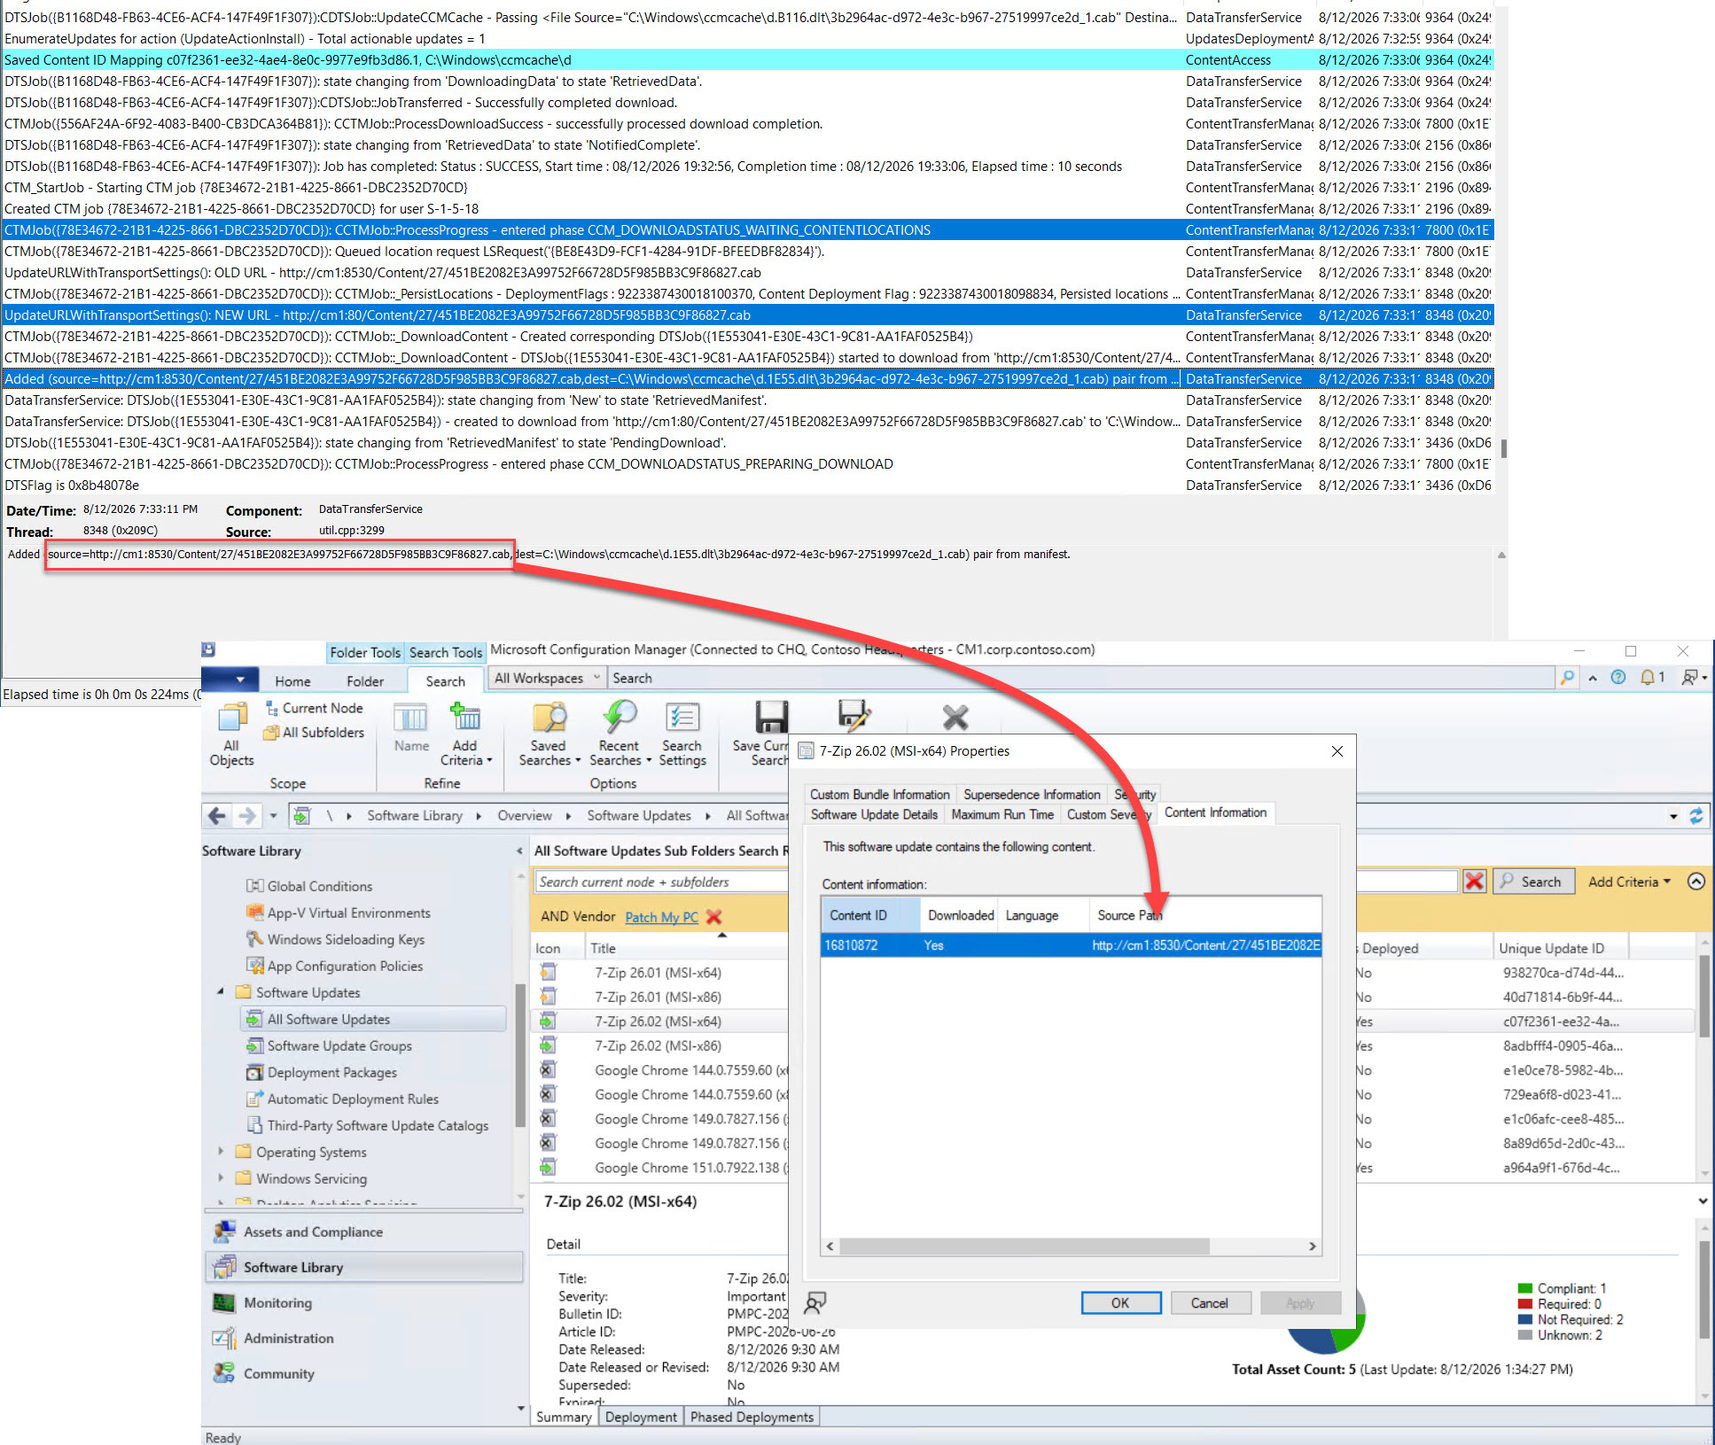
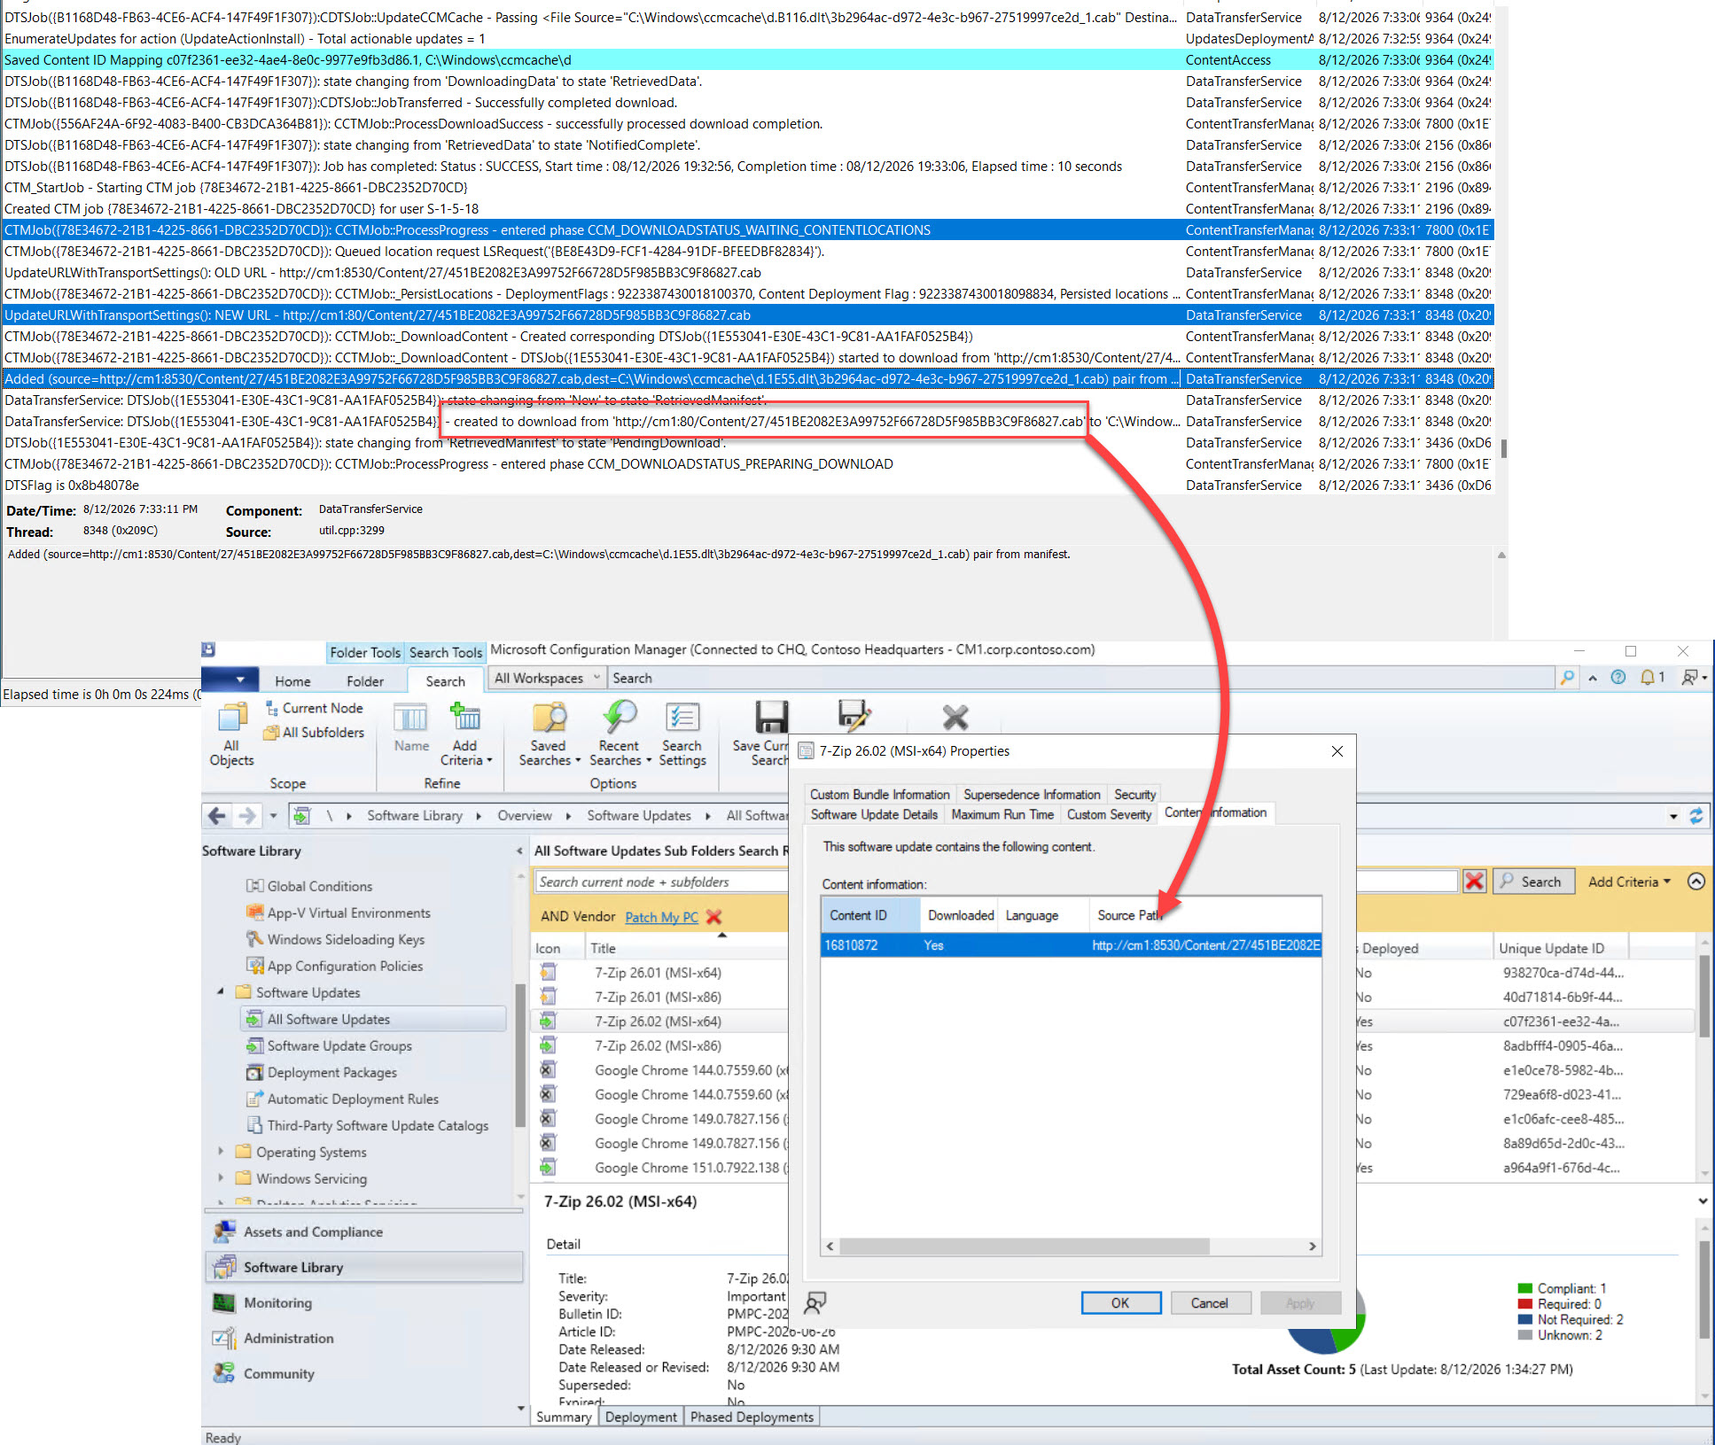
edited blog

Changed region(s): [[0.0, 0.3679, 0.7442, 0.6438], [0.2481, 0.2759, 0.6822, 0.3679], [0.6822, 0.3679, 0.7132, 0.4598]]

diff --git a/blog/configmgrcontentdistro/index.html b/blog/configmgrcontentdistro/index.html
@@ -9,8 +9,9 @@ That article primarily focused on first-party updates. This one digs into some C
 </a><a href=https://www.linkedin.com/in/christopher-dalton-552a2955 target=_blank rel="noreferrer noopener me" title=Linkedin><svg class="icon icon-brand-linkedin" viewBox="0 0 24 24" fill="currentColor"><title>LinkedIn</title><path d="M20.447 20.452h-3.554v-5.569c0-1.328-.027-3.037-1.852-3.037-1.853.0-2.136 1.445-2.136 2.939v5.667H9.351V9h3.414v1.561h.046c.477-.9 1.637-1.85 3.37-1.85 3.601.0 4.267 2.37 4.267 5.455v6.286zM5.337 7.433c-1.144.0-2.063-.926-2.063-2.065.0-1.138.92-2.063 2.063-2.063 1.14.0 2.064.925 2.064 2.063.0 1.139-.925 2.065-2.064 2.065zm1.782 13.019H3.555V9h3.564v11.452zM22.225.0H1.771C.792.0.0.774.0 1.729v20.542C0 23.227.792 24 1.771 24h20.451C23.2 24 24 23.227 24 22.271V1.729C24 .774 23.2.0 22.222.0h.003z"/></svg>
 </a><a id=auth-login-button href=https://daltonfarm-ckdalton01-github-io.onrender.com/auth/login title="Sign in"><svg class="icon icon-login" viewBox="0 0 24 24" fill="none" stroke="currentColor" stroke-width="2" stroke-linecap="round" stroke-linejoin="round"><title>Login</title><path d="M15 3h4a2 2 0 012 2v14a2 2 0 01-2 2h-4"/><polyline points="10 17 15 12 10 7"/><line x1="15" y1="12" x2="3" y2="12"/></svg></a></div><div id=auth-container></div></header><main class=app-container id=main-content><article class=post><header class=post-header><h1 class=post-title>Software Update Content Distribution Fun</h1><div class=post-meta><div><svg class="icon icon-calendar" viewBox="0 0 24 24" fill="none" stroke="currentColor" stroke-width="2" stroke-linecap="round" stroke-linejoin="round"><title>calendar</title><rect x="3" y="4" width="18" height="18" rx="2" ry="2"/><line x1="16" y1="2" x2="16" y2="6"/><line x1="8" y1="2" x2="8" y2="6"/><line x1="3" y1="10" x2="21" y2="10"/></svg>
 Aug 12, 2026</div><div><svg class="icon icon-clock" viewBox="0 0 24 24" fill="none" stroke="currentColor" stroke-width="2" stroke-linecap="round" stroke-linejoin="round"><title>clock</title><circle cx="12" cy="12" r="10"/><polyline points="12 6 12 12 16 14"/></svg>
-3 min read</div><div><svg class="icon icon-tag" viewBox="0 0 24 24" fill="none" stroke="currentColor" stroke-width="2" stroke-linecap="round" stroke-linejoin="round"><title>tag</title><path d="M20.59 13.41l-7.17 7.17a2 2 0 01-2.83.0L2 12V2h10l8.59 8.59a2 2 0 010 2.82z"/><line x1="7" y1="7" x2="7.01" y2="7"/></svg>
+4 min read</div><div><svg class="icon icon-tag" viewBox="0 0 24 24" fill="none" stroke="currentColor" stroke-width="2" stroke-linecap="round" stroke-linejoin="round"><title>tag</title><path d="M20.59 13.41l-7.17 7.17a2 2 0 01-2.83.0L2 12V2h10l8.59 8.59a2 2 0 010 2.82z"/><line x1="7" y1="7" x2="7.01" y2="7"/></svg>
 <a class=tag href=/tags/configmgr/>ConfigMgr</a>
 <a class=tag href=/tags/wsus/>WSUS</a>
 <a class=tag href=/tags/windows/>Windows</a></div></div></header><div class=post-content><h2 id=background>Background</h2><p>I wanted to cover a topic that came up in support recently. The issue revolves around how third-party updates are downloaded to devices and how specific settings affect where that content comes from.</p><p>I wrote this article for PMPC a while back, it&rsquo;s a good primer if you haven&rsquo;t read it:
-<a href=https://patchmypc.com/blog/windows-update-registry-guide/>https://patchmypc.com/blog/windows-update-registry-guide/</a></p><p>That article primarily focused on first-party updates. This one digs into some ConfigMgr settings that cause a lot of confusion around where update content actually comes from. ConfigMgr does a good job of masking the real problem here, with the wrong settings, things technically work&mldr; until you scale.</p><h2 id=what-happens-when-the-dp-doesnt-have-the-content>What Happens When the DP Doesn&rsquo;t Have the Content</h2><p>Let&rsquo;s first walk through what happens when the Distribution Point (DP) doesn&rsquo;t have the content. If you forget to distribute the content, you&rsquo;ll see something like this:</p><p><img src=/2026-08-12_20-07-16.jpg alt=image></p><p>The device has no idea where to get the content. It believes there is an update available, but it can&rsquo;t locate it and ultimately takes no action.</p><p>In the logs, it looks like this:</p><p><img src=/2026-08-12_20-09-12.jpg alt=image1></p><h2 id=the-download-from-microsoft-update-option>The &ldquo;Download from Microsoft Update&rdquo; Option</h2><p>Now let&rsquo;s talk about how a particular option can get you into trouble. This setting essentially says: <em>&ldquo;If you can&rsquo;t find the content on your Distribution Point, go get it from Microsoft Update (the Microsoft catalog online).&rdquo;</em></p><p><img src=/2026-08-12_20-10-55.jpg alt=image2></p><p>This option is great for Cloud Management Gateway (CMG) scenarios, the device can communicate with the CMG to find its updates and download the content even when it&rsquo;s off-network with no line of sight to the DP. However, the wording &ldquo;download the content from Microsoft Update&rdquo; can be misleading.</p><h2 id=what-its-actually-doing>What It&rsquo;s Actually Doing</h2><p>What this setting is really saying is: <em>&ldquo;Download the content from wherever your scan source downloaded it from.&rdquo;</em> In this case, the scan source is your Software Update Point (SUP).</p><p>That&rsquo;s perfectly fine when the SUP expects you to contact a Microsoft Update URL:</p><p><img src=/2026-08-12_20-26-48.jpg alt=image3></p><p>But it&rsquo;s not fine when the update content lives in IIS, like this 7-Zip update:</p><p><img src=/2026-08-12_20-26-50.jpg alt=image4></p><h2 id=how-third-party-updates-are-published>How Third-Party Updates Are Published</h2><p>When a third-party update is published in WSUS (at least from Patch My PC, and likely from other third-party vendors as well), it publishes into the IIS / WSUS Administration / Content location:</p><p><img src=/2026-08-12_20-34-47.jpg alt=image5></p><h2 id=the-device-downloads-from-the-sup-and-it-works>The Device Downloads from the SUP, and It &ldquo;Works&rdquo;</h2><p>Here&rsquo;s the device downloading that update directly from the SUP:</p><p><img src=/2026-08-12_20-38-22.jpg alt=image6></p><p>And it works! &mldr;which is actually not great.</p><p>Here&rsquo;s what the current (incorrect) setup looks like:</p><p><img src=/2026-08-12_19-54-48.jpg alt=image7></p><h2 id=distributing-the-content-correctly>Distributing the Content Correctly</h2><p>Now let&rsquo;s distribute the content to the DP the right way:</p><p><img src=/2026-08-12_19-56-27.jpg alt=image8></p><p>With the content properly distributed, we can see that same update now coming from the Distribution Point instead of the SUP:</p><p><img src=/2026-08-12_20-43-56.jpg alt=image9></p><h2 id=the-correct-content-flow>The Correct Content Flow</h2><p>With the setup configured correctly, the content flows like this:</p><p><img src=/2026-08-12_19-52-37.jpg alt=image10></p><p>This may seem like a minor detail, but it can cause serious issues at scale. If you have only one Software Update Point but ten Distribution Points, every device will download content from the SUP when given the option, that&rsquo;s a significant bottleneck waiting to happen.</p><h2 id=summary-and-recommendation>Summary and Recommendation</h2><p>The correct configuration is to <strong>disable</strong> the option <em>&ldquo;If software updates are not available on distribution points in current, neighbor, or site boundary groups, download the content from Microsoft Update.&rdquo;</em></p><p>This option should never be enabled when you have third-party updates in your deployment. For first-party/Microsoft updates, however, it works great and can be left enabled.</p></div><div class=post-footer></div></article><footer class=app-footer><p>&copy; 2026 Chris Dalton. Built with Hugo.</p></footer></main><script>window.backendURL="https://daltonfarm-ckdalton01-github-io.onrender.com"</script><script src=/js/auth.js></script><script src=/js/dns-counter.js></script></body></html>
+<a href=https://patchmypc.com/blog/windows-update-registry-guide/>https://patchmypc.com/blog/windows-update-registry-guide/</a></p><p>That article primarily focused on first-party updates. This one digs into some ConfigMgr settings that cause a lot of confusion around where update content actually comes from. ConfigMgr does a good job of masking the real problem here, with the wrong settings, things technically work&mldr; until you scale.</p><h2 id=what-happens-when-the-dp-doesnt-have-the-content>What Happens When the DP Doesn&rsquo;t Have the Content</h2><p>Let&rsquo;s first walk through what happens when the Distribution Point (DP) doesn&rsquo;t have the content. If you forget to distribute the content, you&rsquo;ll see something like this:</p><p><img src=/2026-08-12_20-09-12.jpg alt=image1></p><p>The device has no idea where to get the content. It believes there is an update available, but it can&rsquo;t locate it and ultimately takes no action.</p><p>In the logs, it looks like this:</p><p><img src=/2026-08-12_20-07-16.jpg alt=image></p><h2 id=the-download-from-microsoft-update-option>The &ldquo;Download from Microsoft Update&rdquo; Option</h2><p>Now let&rsquo;s talk about how a particular option can get you into trouble. The Deployment option under Download Settings > <strong>&ldquo;If software updates are not available on distribution points in current, neighbor, or site boundary groups, download the content from Microsoft Update.&rdquo;</strong>
+This setting essentially says: <em>&ldquo;If you can&rsquo;t find the content on your Distribution Point, go get it from Microsoft Update (the Microsoft catalog online).&rdquo;</em></p><p><img src=/2026-08-12_20-10-55.jpg alt=image2></p><p>This option is great for Cloud Management Gateway (CMG) scenarios, the device can communicate with the CMG to find its updates and download the content even when it&rsquo;s off-network with no line of sight to the DP. However, the wording &ldquo;download the content from Microsoft Update&rdquo; can be misleading.</p><h2 id=what-its-actually-doing>What It&rsquo;s Actually Doing</h2><p>What this setting is really saying is: <em>&ldquo;Download the content from wherever your scan source downloaded it from.&rdquo;</em> In this case, the scan source is your Software Update Point (SUP) / WSUS.</p><p>That&rsquo;s perfectly fine when the SUP expects you to contact a Microsoft Update URL:</p><p><img src=/2026-08-12_20-26-48.jpg alt=image3></p><p>But it&rsquo;s not fine when the update content lives in IIS, like this 7-Zip update:</p><p><img src=/2026-08-12_20-26-50.jpg alt=image4></p><h2 id=how-third-party-updates-are-published>How Third-Party Updates Are Published</h2><p>When a third-party update is published in WSUS (at least from Patch My PC, and likely from other third-party vendors as well), it publishes into the IIS / WSUS Administration / Content location:</p><p><img src=/2026-08-12_20-34-47.jpg alt=image5></p><h2 id=the-device-downloads-from-the-sup-and-it-works>The Device Downloads from the SUP, and It &ldquo;Works&rdquo;</h2><p>Here&rsquo;s the device downloading that update directly from the SUP:</p><p><img src=/2026-08-12_20-38-22.jpg alt=image6></p><p>And it works! &mldr;which is actually not great.</p><p>Here&rsquo;s what the current (incorrect) setup looks like:</p><p><img src=/2026-08-12_19-54-48.jpg alt=image7></p><h2 id=distributing-the-content-correctly>Distributing the Content Correctly</h2><p>Now let&rsquo;s distribute the content to the DP the right way:</p><p><img src=/2026-08-12_19-56-27.jpg alt=image8></p><p>With the content properly distributed, we can see that same update now coming from the Distribution Point instead of the SUP:</p><p><img src=/2026-08-12_20-43-56.jpg alt=image9></p><h2 id=the-correct-content-flow>The Correct Content Flow</h2><p>With the setup configured correctly, the content flows like this:</p><p><img src=/2026-08-12_19-52-37.jpg alt=image10></p><p>This may seem like a minor detail, but it can cause serious issues at scale. If you have only one Software Update Point but ten Distribution Points, every device will download content from the SUP when given the option, that&rsquo;s a significant bottleneck waiting to happen.</p><p>If you enabled the option <em>&ldquo;If software updates are not available on distribution points in current, neighbor, or site boundary groups, download the content from Microsoft Update.&rdquo;</em> <strong>and</strong> distributed the content, most devices will prefer their DP, but this assumes your boundarys are setup correctly and there are no issues connecting to the DP. It&rsquo;s best to leave this option turned off and distribute the content forcing your devices to grab the package from the DP.</p><h2 id=summary-and-recommendation>Summary and Recommendation</h2><p>The correct configuration is to <strong>disable</strong> the option <em>&ldquo;If software updates are not available on distribution points in current, neighbor, or site boundary groups, download the content from Microsoft Update.&rdquo;</em></p><p>This option should never be enabled when you have third-party updates in your deployment. For first-party/Microsoft updates, however, it works great and can be left enabled.</p></div><div class=post-footer></div></article><footer class=app-footer><p>&copy; 2026 Chris Dalton. Built with Hugo.</p></footer></main><script>window.backendURL="https://daltonfarm-ckdalton01-github-io.onrender.com"</script><script src=/js/auth.js></script><script src=/js/dns-counter.js></script></body></html>

diff --git a/blog/index.html b/blog/index.html
@@ -8,7 +8,7 @@
 Aug 12, 2026
 <span class=posts-list-item-separator>-</span>
 <svg class="icon icon-clock" viewBox="0 0 24 24" fill="none" stroke="currentColor" stroke-width="2" stroke-linecap="round" stroke-linejoin="round"><title>clock</title><circle cx="12" cy="12" r="10"/><polyline points="12 6 12 12 16 14"/></svg>
-3 min read</span></li><li class=posts-list-item><a class=posts-list-item-title href=/blog/get-discoveredappsalldevices/>Get-DiscoveredAppsAllDevices</a>
+4 min read</span></li><li class=posts-list-item><a class=posts-list-item-title href=/blog/get-discoveredappsalldevices/>Get-DiscoveredAppsAllDevices</a>
 <span class=posts-list-item-description><svg class="icon icon-calendar" viewBox="0 0 24 24" fill="none" stroke="currentColor" stroke-width="2" stroke-linecap="round" stroke-linejoin="round"><title>calendar</title><rect x="3" y="4" width="18" height="18" rx="2" ry="2"/><line x1="16" y1="2" x2="16" y2="6"/><line x1="8" y1="2" x2="8" y2="6"/><line x1="3" y1="10" x2="21" y2="10"/></svg>
 Feb 11, 2026
 <span class=posts-list-item-separator>-</span>

diff --git a/index.html b/index.html
@@ -9,7 +9,7 @@
 Aug 12, 2026
 <span class=posts-list-item-separator>-</span>
 <svg class="icon icon-clock" viewBox="0 0 24 24" fill="none" stroke="currentColor" stroke-width="2" stroke-linecap="round" stroke-linejoin="round"><title>clock</title><circle cx="12" cy="12" r="10"/><polyline points="12 6 12 12 16 14"/></svg>
-3 min read</span></li><li class=posts-list-item><a class=posts-list-item-title href=/blog/get-discoveredappsalldevices/>Get-DiscoveredAppsAllDevices</a>
+4 min read</span></li><li class=posts-list-item><a class=posts-list-item-title href=/blog/get-discoveredappsalldevices/>Get-DiscoveredAppsAllDevices</a>
 <span class=posts-list-item-description><svg class="icon icon-calendar" viewBox="0 0 24 24" fill="none" stroke="currentColor" stroke-width="2" stroke-linecap="round" stroke-linejoin="round"><title>calendar</title><rect x="3" y="4" width="18" height="18" rx="2" ry="2"/><line x1="16" y1="2" x2="16" y2="6"/><line x1="8" y1="2" x2="8" y2="6"/><line x1="3" y1="10" x2="21" y2="10"/></svg>
 Feb 11, 2026
 <span class=posts-list-item-separator>-</span>

diff --git a/tags/windows/index.html b/tags/windows/index.html
@@ -8,7 +8,7 @@
 Aug 12, 2026
 <span class=posts-list-item-separator>-</span>
 <svg class="icon icon-clock" viewBox="0 0 24 24" fill="none" stroke="currentColor" stroke-width="2" stroke-linecap="round" stroke-linejoin="round"><title>clock</title><circle cx="12" cy="12" r="10"/><polyline points="12 6 12 12 16 14"/></svg>
-3 min read</span></li><li class=posts-list-item><a class=posts-list-item-title href=/blog/get-discoveredappsalldevices/>Get-DiscoveredAppsAllDevices</a>
+4 min read</span></li><li class=posts-list-item><a class=posts-list-item-title href=/blog/get-discoveredappsalldevices/>Get-DiscoveredAppsAllDevices</a>
 <span class=posts-list-item-description><svg class="icon icon-calendar" viewBox="0 0 24 24" fill="none" stroke="currentColor" stroke-width="2" stroke-linecap="round" stroke-linejoin="round"><title>calendar</title><rect x="3" y="4" width="18" height="18" rx="2" ry="2"/><line x1="16" y1="2" x2="16" y2="6"/><line x1="8" y1="2" x2="8" y2="6"/><line x1="3" y1="10" x2="21" y2="10"/></svg>
 Feb 11, 2026
 <span class=posts-list-item-separator>-</span>

diff --git a/tags/wsus/index.html b/tags/wsus/index.html
@@ -8,7 +8,7 @@
 Aug 12, 2026
 <span class=posts-list-item-separator>-</span>
 <svg class="icon icon-clock" viewBox="0 0 24 24" fill="none" stroke="currentColor" stroke-width="2" stroke-linecap="round" stroke-linejoin="round"><title>clock</title><circle cx="12" cy="12" r="10"/><polyline points="12 6 12 12 16 14"/></svg>
-3 min read</span></li><li class=posts-list-item><a class=posts-list-item-title href=/blog/sqlqueryforwsusupdates/>SQL Query For WSUS Updates</a>
+4 min read</span></li><li class=posts-list-item><a class=posts-list-item-title href=/blog/sqlqueryforwsusupdates/>SQL Query For WSUS Updates</a>
 <span class=posts-list-item-description><svg class="icon icon-calendar" viewBox="0 0 24 24" fill="none" stroke="currentColor" stroke-width="2" stroke-linecap="round" stroke-linejoin="round"><title>calendar</title><rect x="3" y="4" width="18" height="18" rx="2" ry="2"/><line x1="16" y1="2" x2="16" y2="6"/><line x1="8" y1="2" x2="8" y2="6"/><line x1="3" y1="10" x2="21" y2="10"/></svg>
 Feb 21, 2025
 <span class=posts-list-item-separator>-</span>

diff --git a/tags/configmgr/index.html b/tags/configmgr/index.html
@@ -8,7 +8,7 @@
 Aug 12, 2026
 <span class=posts-list-item-separator>-</span>
 <svg class="icon icon-clock" viewBox="0 0 24 24" fill="none" stroke="currentColor" stroke-width="2" stroke-linecap="round" stroke-linejoin="round"><title>clock</title><circle cx="12" cy="12" r="10"/><polyline points="12 6 12 12 16 14"/></svg>
-3 min read</span></li><li class=posts-list-item><a class=posts-list-item-title href=/blog/adrbestpractice/>ADR "Best Practice"</a>
+4 min read</span></li><li class=posts-list-item><a class=posts-list-item-title href=/blog/adrbestpractice/>ADR "Best Practice"</a>
 <span class=posts-list-item-description><svg class="icon icon-calendar" viewBox="0 0 24 24" fill="none" stroke="currentColor" stroke-width="2" stroke-linecap="round" stroke-linejoin="round"><title>calendar</title><rect x="3" y="4" width="18" height="18" rx="2" ry="2"/><line x1="16" y1="2" x2="16" y2="6"/><line x1="8" y1="2" x2="8" y2="6"/><line x1="3" y1="10" x2="21" y2="10"/></svg>
 Dec 29, 2025
 <span class=posts-list-item-separator>-</span>
